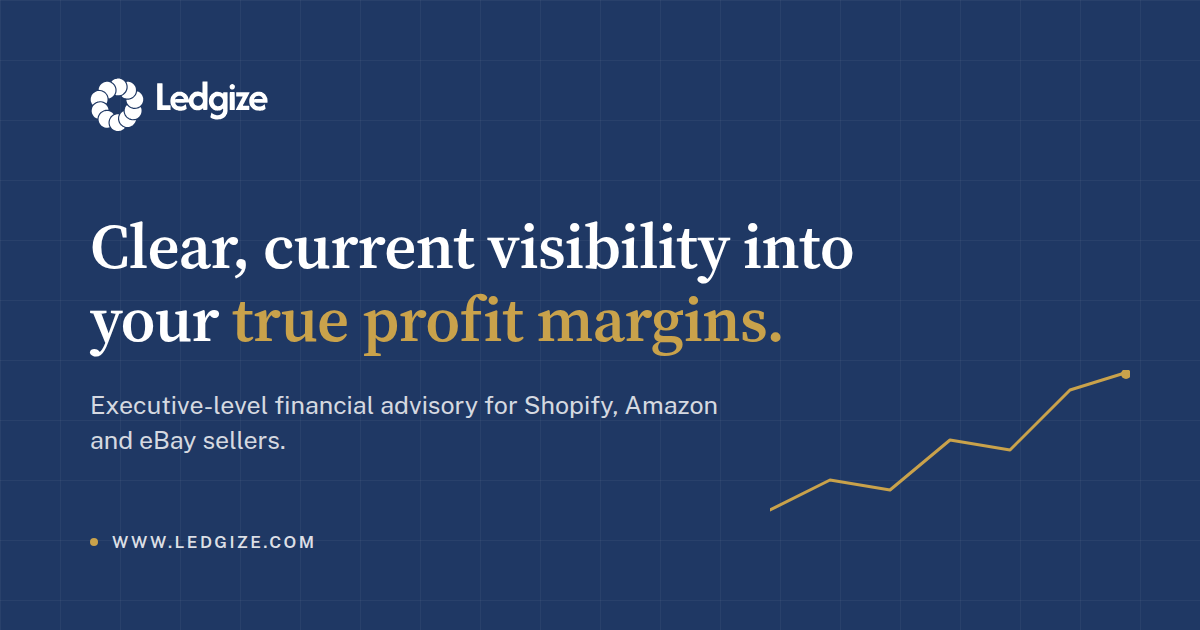
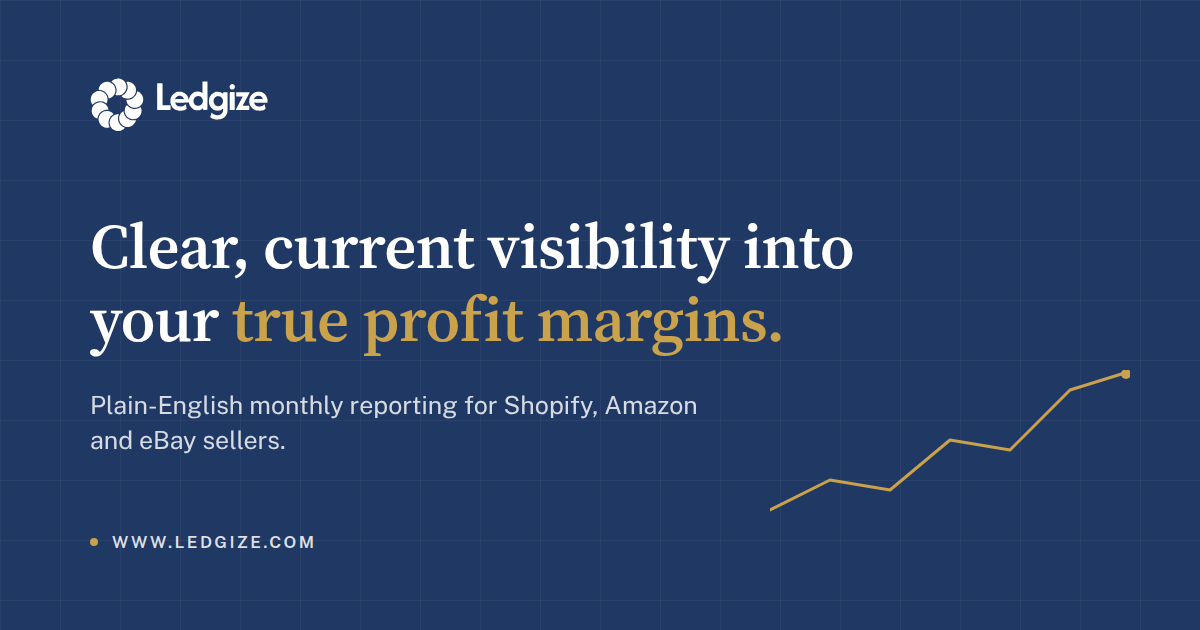
Remove executive-level advisory claim and tighten site copy
- Hero, meta, Open Graph, Twitter and structured-data descriptions no
  longer claim executive-level advisory; social image subtitle now reads
  "Plain-English monthly reporting for Shopify, Amazon and eBay
  sellers." (og:image ?v=4).
- About: new headline, Nairobi location and reply-time sentence, no
  "offshore" wording, plainer first paragraph.
- Problem cards 01 and 03, the two approach blocks, Foundation channel
  note, billing wording and Health Check plan-and-price item updated.
- Privacy: "Who we are" section with registered business details,
  last updated October 30, 2026. README description updated.

Claude-Session: https://claude.ai/code/session_012CvaQptRPjiYCZSd3wJeQk

Changed region(s): [[0.0617, 0.6333, 0.6167, 0.6635], [0.0617, 0.6937, 0.2467, 0.7238]]

diff --git a/index.html b/index.html
@@ -5,7 +5,7 @@
   <meta name="viewport" content="width=device-width, initial-scale=1.0" />
   <meta name="color-scheme" content="light dark" />
   <title>Ledgize: Clear Margin Visibility for E-Commerce Sellers</title>
-  <meta name="description" content="Ledgize gives Shopify, Amazon and eBay sellers clear visibility into true profit margins, backed by executive-level financial advisory. Book your Free Books Health Check." />
+  <meta name="description" content="Ledgize builds the bookkeeping systems for Shopify, Amazon and eBay sellers and shows their true profit margins every month. Book your Free Books Health Check." />
   <link rel="canonical" href="https://www.ledgize.com/" />
 
   <!-- Favicons -->
@@ -19,16 +19,16 @@
   <meta property="og:type" content="website" />
   <meta property="og:site_name" content="Ledgize" />
   <meta property="og:title" content="Ledgize: Clear Margin Visibility for E-Commerce Sellers" />
-  <meta property="og:description" content="Clear, current visibility into true profit margins, backed by executive-level financial advisory for Shopify, Amazon and eBay sellers." />
+  <meta property="og:description" content="Clear, current visibility into true profit margins for Shopify, Amazon and eBay sellers, with plain-English monthly reporting." />
   <meta property="og:url" content="https://www.ledgize.com/" />
-  <meta property="og:image" content="https://www.ledgize.com/assets/og-image.png?v=3" />
+  <meta property="og:image" content="https://www.ledgize.com/assets/og-image.png?v=4" />
   <meta property="og:image:width" content="1200" />
   <meta property="og:image:height" content="630" />
 
   <meta name="twitter:card" content="summary_large_image" />
   <meta name="twitter:title" content="Ledgize: Clear Margin Visibility for E-Commerce Sellers" />
-  <meta name="twitter:description" content="Clear, current visibility into true profit margins, backed by executive-level financial advisory for Shopify, Amazon and eBay sellers." />
-  <meta name="twitter:image" content="https://www.ledgize.com/assets/og-image.png?v=3" />
+  <meta name="twitter:description" content="Clear, current visibility into true profit margins for Shopify, Amazon and eBay sellers, with plain-English monthly reporting." />
+  <meta name="twitter:image" content="https://www.ledgize.com/assets/og-image.png?v=4" />
 
   <link rel="preload" href="assets/fonts/source-serif4-600.woff2" as="font" type="font/woff2" crossorigin />
   <link rel="preload" href="assets/fonts/public-sans-400.woff2" as="font" type="font/woff2" crossorigin />
@@ -51,7 +51,7 @@
     "legalName": "Ledgize E-Commerce Financial Systems",
     "url": "https://www.ledgize.com/",
     "email": "ali@ledgize.com",
-    "description": "E-commerce accounting, financial systems architecture, and executive-level advisory for Shopify, Amazon and eBay sellers.",
+    "description": "E-commerce bookkeeping and financial systems for Shopify, Amazon and eBay sellers.",
     "areaServed": ["US", "GB", "CA", "AU"],
     "founder": {
       "@type": "Person",
@@ -373,9 +373,8 @@ c-273 -36 -307 -43 -398 -89 -48 -24 -98 -47 -112 -51 -94 -27 -254 -122 -347
         <div class="hero-copy">
           <h1>Clear, current visibility into your true profit margins.</h1>
           <p class="hero-sub">
-            For Shopify, Amazon and eBay sellers doing $70k to $500k a month: Ledgize builds the financial infrastructure and
-            delivers the executive-level advisory you need to see, and trust, your real numbers
-            after fees, ad spend, and marketplace payouts.
+            For Shopify, Amazon and eBay sellers doing $70k to $500k a month: Ledgize builds the systems behind your books and shows you, in
+            plain English, your real numbers after fees, ad spend and marketplace payouts.
           </p>
           <div class="hero-actions">
             <a href="https://calendar.app.google/x4VN65FmpogkEirC7" target="_blank" rel="noopener noreferrer" class="btn btn-primary btn-lg">Book Your Free Books Health Check</a>
@@ -423,7 +422,7 @@ c-273 -36 -307 -43 -398 -89 -48 -24 -98 -47 -112 -51 -94 -27 -254 -122 -347
             <div class="problem-num" aria-hidden="true">01</div>
             <div>
               <h3>Margins that hide the truth</h3>
-              <p>QuickBooks Online shows a number, but it isn't net of marketplace fees, ad spend, and returns. The "profit" on your P&amp;L rarely matches what actually lands in the bank.</p>
+              <p>Payouts arrive as lump sums with sales, fees, refunds and ad charges already mixed together, so your books can't show what Amazon, ads and returns are really costing you.</p>
             </div>
           </div>
           <div class="problem-row">
@@ -436,8 +435,8 @@ c-273 -36 -307 -43 -398 -89 -48 -24 -98 -47 -112 -51 -94 -27 -254 -122 -347
           <div class="problem-row">
             <div class="problem-num" aria-hidden="true">03</div>
             <div>
-              <h3>No real-time read on cash</h3>
-              <p>By the time month-end close tells you where you stand, the decisions that mattered (inventory buys, ad budget, hiring) already happened without that information.</p>
+              <h3>Numbers that arrive too late</h3>
+              <p>When the books get done whenever someone gets to them, the decisions that mattered (inventory buys, ad budget, hiring) have already been made without them.</p>
             </div>
           </div>
         </div>
@@ -494,8 +493,8 @@ c-273 -36 -307 -43 -398 -89 -48 -24 -98 -47 -112 -51 -94 -27 -254 -122 -347
           <div class="card-flat">
             <h3>A structured, not arbitrary, process</h3>
             <p>
-              Every engagement starts with a structured evaluation of your current financial
-              setup: data quality, channel complexity, reporting needs, and advisory readiness.
+              Every engagement starts with a structured look at how your business actually runs:
+              monthly orders, sales channels, how your money arrives, and inventory.
               The plan we recommend is based on where your business actually stands, not a
               one-size-fits-all package.
             </p>
@@ -503,8 +502,8 @@ c-273 -36 -307 -43 -398 -89 -48 -24 -98 -47 -112 -51 -94 -27 -254 -122 -347
           <div class="card-flat">
             <h3>Built for e-commerce specifically</h3>
             <p>
-              Marketplace settlement timing, COGS by channel, ad spend allocation, and true
-              landed-cost margin aren't edge cases to us. They're the default assumption behind
+              Marketplace payout timing, ad spend, and the true cost of each product, shipping and
+              duty included, aren't edge cases to us. They're the default assumption behind
               every system we set up.
             </p>
           </div>
@@ -534,7 +533,7 @@ c-273 -36 -307 -43 -398 -89 -48 -24 -98 -47 -112 -51 -94 -27 -254 -122 -347
             <p class="tier-for">For simpler setups that need clean, reliable books: standard payouts, straightforward inventory, and core monthly reporting.</p>
             <p class="tier-price">$799&ndash;999/month</p>
             <ul class="tier-list">
-              <li>Bookkeeping for one sales channel (Shopify, Amazon or eBay); add a channel for $200/month</li>
+              <li>Bookkeeping for one sales channel (Shopify, Amazon or eBay); add a channel for $200/month (sellers under $100k/month)</li>
               <li>Monthly close package: P&amp;L, balance sheet, cash flow, 1-page executive summary</li>
               <li>Full reconciliation, categorization, standard month-end close</li>
               <li>Sales tax tracked and reconciled every month (your CPA files)</li>
@@ -646,7 +645,7 @@ c-273 -36 -307 -43 -398 -89 -48 -24 -98 -47 -112 -51 -94 -27 -254 -122 -347
           </div>
           <div class="card-flat">
             <h3>Simple billing in US dollars.</h3>
-            <p>Each month is invoiced on the 1st for the month just closed, due within 7 days. Transfer fees are paid by you.</p>
+            <p>Each month is invoiced on the 1st for the month just ended, due within 7 days. Transfer fees are paid by you.</p>
           </div>
           <div class="card-flat">
             <h3>Your accounts stay yours.</h3>
@@ -673,6 +672,7 @@ c-273 -36 -307 -43 -398 -89 -48 -24 -98 -47 -112 -51 -94 -27 -254 -122 -347
             <li><strong>Where your numbers are likely off</strong></li>
             <li><strong>What's worth fixing first</strong></li>
             <li><strong>What a cleanup would involve</strong></li>
+            <li><strong>Your recommended plan and price</strong></li>
             <li><strong>An honest view of whether Ledgize is the right fit</strong></li>
           </ul>
 
@@ -692,7 +692,7 @@ c-273 -36 -307 -43 -398 -89 -48 -24 -98 -47 -112 -51 -94 -27 -254 -122 -347
               <li><span>Where your numbers are likely off</span><i style="width: 88%"></i><i style="width: 64%"></i></li>
               <li><span>What's worth fixing first</span><i style="width: 80%"></i><i style="width: 56%"></i></li>
               <li><span>What a cleanup would involve</span><i style="width: 90%"></i><i style="width: 68%"></i></li>
-              <li class="summary-rec"><span>Recommended next step</span><i style="width: 76%"></i></li>
+              <li class="summary-rec"><span>Recommended plan, price and next step</span><i style="width: 76%"></i></li>
             </ol>
             <p class="summary-foot">Confidential</p>
           </div>
@@ -706,21 +706,22 @@ c-273 -36 -307 -43 -398 -89 -48 -24 -98 -47 -112 -51 -94 -27 -254 -122 -347
         <div class="kicker center">
           <span class="kicker-label">About Ledgize</span>
         </div>
-        <h2 class="section-title center">Built on deep e-commerce accounting expertise, not a generic playbook.</h2>
+        <h2 class="section-title center">Built for e-commerce sellers, not a generic playbook.</h2>
 
         <div class="about-copy">
           <p>
             Ledgize was built around one specific problem: e-commerce sellers on Shopify, Amazon and eBay
-            are consistently underserved by generalist bookkeeping. Marketplace
-            settlement mechanics, multi-channel reconciliation, and true landed-cost margin
-            calculation are specialized problems, and most firms treat them as an afterthought.
+            are consistently underserved by generalist bookkeeping. Marketplace payouts, selling
+            on several channels, and the true cost of each product, shipping and duty included,
+            are specialized problems, and most firms treat them as an afterthought.
           </p>
           <p>
             Ledgize was founded by Ali, an A2X-certified bookkeeper and QuickBooks Online ProAdvisor
             who works exclusively with Shopify, Amazon and eBay sellers. He spent close to a year studying
             how marketplace payouts, fees, refunds and sales tax actually move through a seller's
             books, and built Ledgize's full operating system before taking on a single client.
-            Ledgize takes on a limited number of sellers on purpose, so each one gets books they can
+            Ledgize is based in Nairobi, Kenya. Calls are held during the US business day, and every
+            question gets a reply within one business day. Ledgize takes on a limited number of sellers on purpose, so each one gets books they can
             trust and a clear view of their real margins.
           </p>
           <p class="about-linkedin"><a href="https://www.linkedin.com/in/abdullahi-ali-21b149436" target="_blank" rel="noopener noreferrer">Connect with Ali on LinkedIn</a></p>
@@ -729,8 +730,8 @@ c-273 -36 -307 -43 -398 -89 -48 -24 -98 -47 -112 -51 -94 -27 -254 -122 -347
             <img src="assets/qbo-certified-badge.png" alt="Certified QuickBooks Online ProAdvisor" width="64" height="72" loading="lazy" class="badge-qbo" />
           </div>
           <p>
-            Every engagement stays a direct relationship with the person doing the work: no account managers, no offshore
-            data-entry team, no hand-offs between people who don't know your books. That's how the
+            Every engagement stays a direct relationship with the person doing the work: no account managers, no hand-offs
+            to a data-entry team, no hand-offs between people who don't know your books. That's how the
             specialization above gets applied to your specific numbers, not fit into a template
             built for a different kind of seller.
           </p>

diff --git a/privacy.html b/privacy.html
@@ -282,7 +282,7 @@ c-273 -36 -307 -43 -398 -89 -48 -24 -98 -47 -112 -51 -94 -27 -254 -122 -347
   <main class="simple-page" id="main-content" tabindex="-1">
     <div class="container">
       <h1>Privacy Policy</h1>
-      <p class="updated">Last updated: October 2026</p>
+      <p class="updated">Last updated: October 30, 2026</p>
 
       <p>
         This Privacy Policy explains what information Ledgize ("Ledgize," "we," "us") collects
@@ -290,6 +290,13 @@ c-273 -36 -307 -43 -398 -89 -48 -24 -98 -47 -112 -51 -94 -27 -254 -122 -347
         covers only this website; it does not cover the separate systems used to deliver
         bookkeeping and advisory services to engaged clients, which are governed by your signed
         Client Services Agreement.
+      </p>
+
+      <h2>Who we are</h2>
+      <p>
+        This website is run by Ledgize E-Commerce Financial Systems, a sole proprietorship
+        registered in Kenya (business name registration BN-VZSEAWZK), based in Nairobi. You can
+        reach us at <a class="inline-link" href="mailto:ali@ledgize.com">ali@ledgize.com</a>.
       </p>
 
       <h2>Information we collect</h2>

diff --git a/README.md b/README.md
@@ -1,8 +1,8 @@
 # Ledgize Website
 
 Single-page marketing site for Ledgize, a firm helping Shopify, Amazon and eBay
-sellers get clear, current visibility into true profit margins, backed by
-executive-level financial advisory.
+sellers get clear, current visibility into true profit margins, with plain-English
+monthly reporting.
 
 Static HTML/CSS/vanilla JS, no build step, no backend.
 
